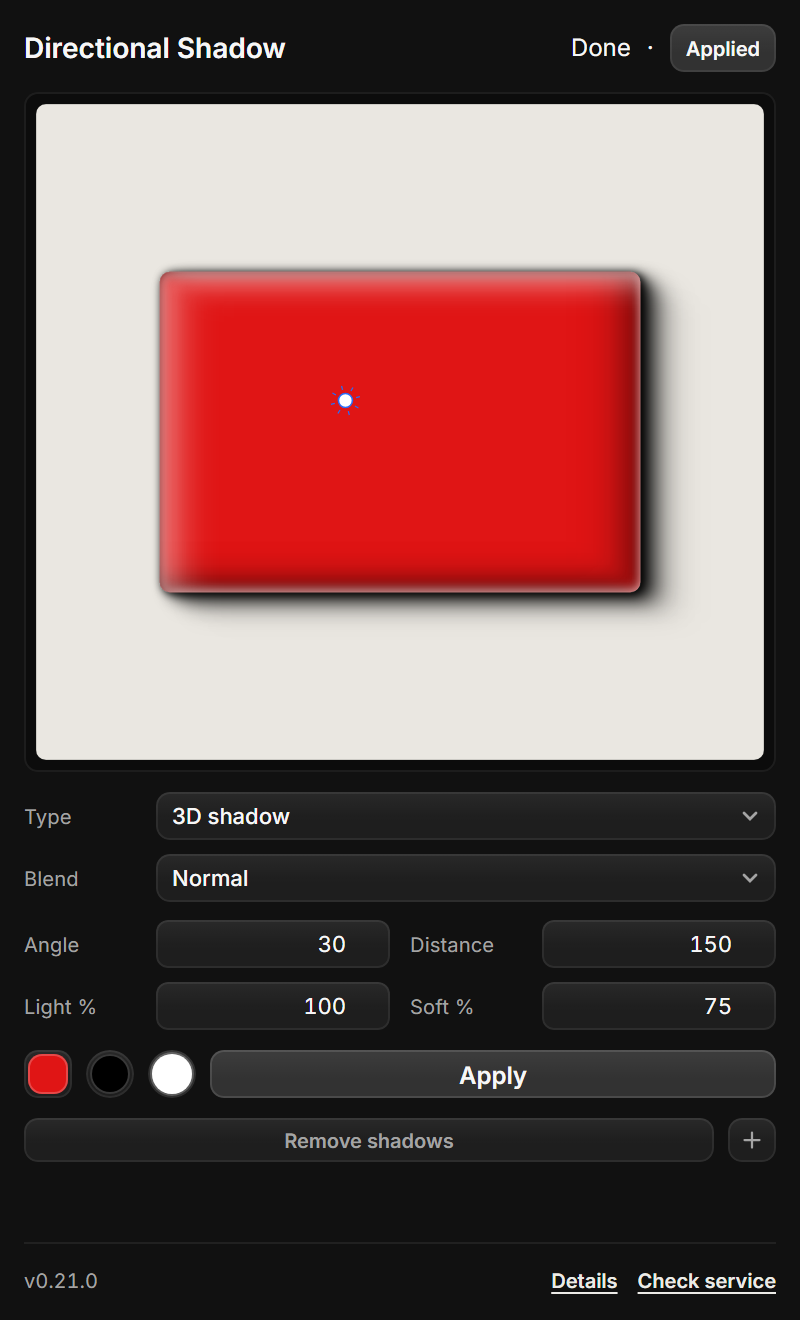
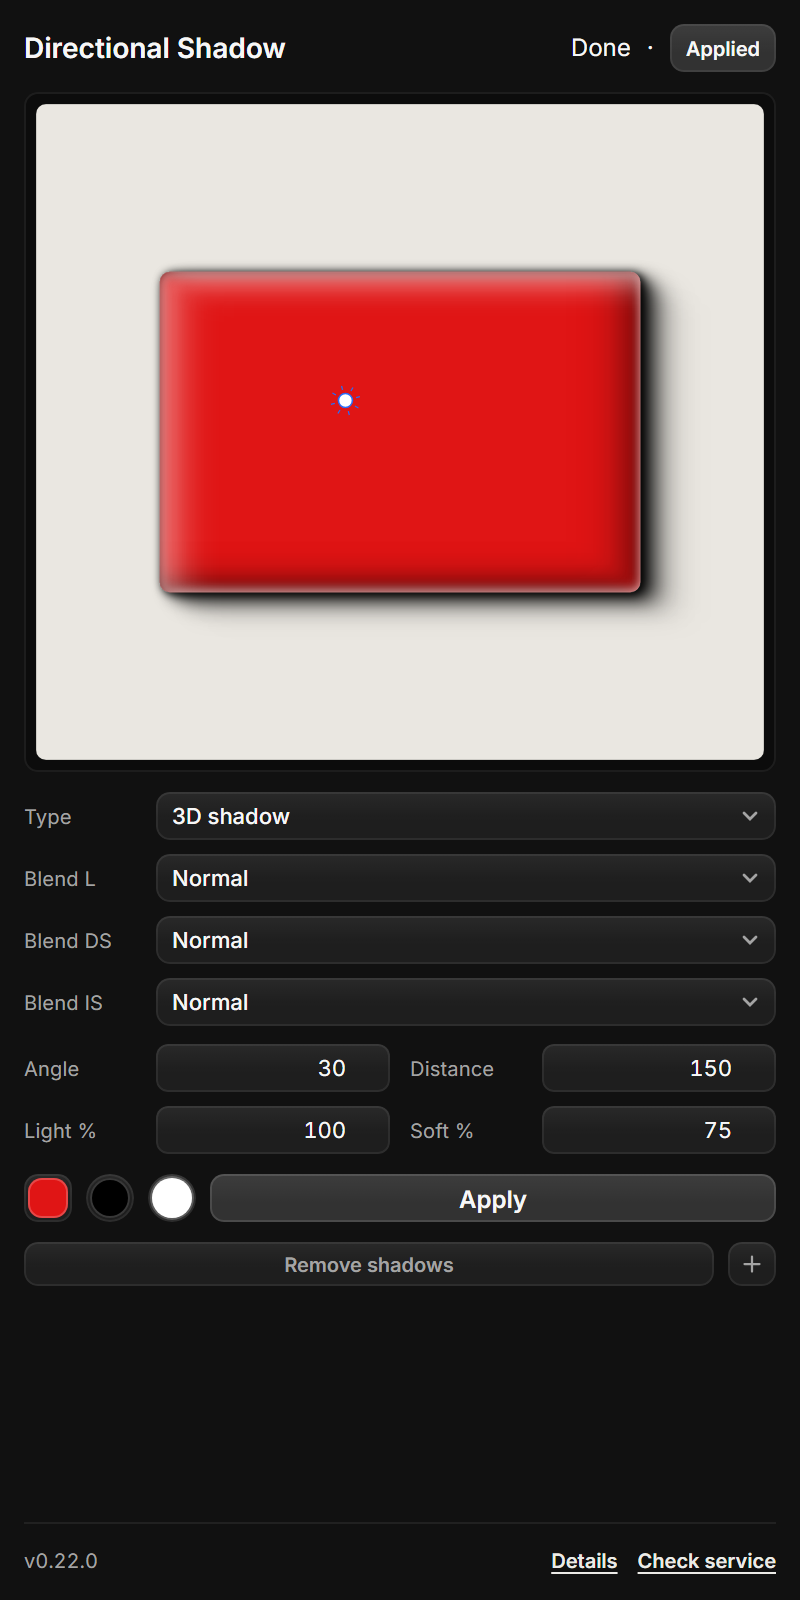
feat: give 3D mode separate blends for lighting, drop and inner
In 3D mode the single Blend row becomes three controls: Blend L for the
lighting ramp, Blend DS for the drop shadow ramp and Blend IS for the inner
bevel ramp. Each value is saved with the panel settings and used by the
matching effect group; the 2D modes keep one Blend row and reuse the slot of
the selected type.

diff --git a/plugin/app.js b/plugin/app.js
@@ -19,6 +19,11 @@ const el = {
   soft: document.getElementById("soft"),
   kind: document.getElementById("kind"),
   blend: document.getElementById("blend"),
+  blendSingle: document.getElementById("blendSingle"),
+  blend3d: document.getElementById("blend3d"),
+  blendLight: document.getElementById("blendLight"),
+  blendDrop: document.getElementById("blendDrop"),
+  blendInner: document.getElementById("blendInner"),
   cardSwatchBtn: document.getElementById("cardSwatchBtn"),
   cardSwatchDot: document.getElementById("cardSwatchDot"),
   pickerTitle: document.getElementById("pickerTitle"),
@@ -57,6 +62,8 @@ let lastParams = { ...Shadow.DEFAULTS };
 let hsv = { h: 0, s: 0, v: 0 };
 let objectColour = "#f7f7f7";
 let lightingColour = Shadow ? Shadow.DEFAULT_LIGHTING : "#ffffff";
+// 3D mode keeps one blend per bevel component; the 2D modes reuse the matching slot.
+let blends = { lighting: "normal", dropShadow: "normal", innerShadow: "normal" };
 
 function badge(text, kind) {
   el.badge.textContent = text;
@@ -292,7 +299,7 @@ function drawPreview() {
   const green = parseInt(hex.slice(2, 4), 16);
   const blue = parseInt(hex.slice(4, 6), 16);
 
-  function drawInnerRamp(innerParams, colourValue) {
+  function drawInnerRamp(innerParams, colourValue, blendValue) {
     const innerPlan = Shadow.planLayers(innerParams);
     const rgb = Colour.hexToRgb(colourValue);
     ctx.save();
@@ -300,7 +307,7 @@ function drawPreview() {
     ctx.clip();
     for (const layer of innerPlan.layers) {
       ctx.save();
-      ctx.globalCompositeOperation = previewBlend(innerPlan.params.blend);
+      ctx.globalCompositeOperation = previewBlend(blendValue);
       ctx.filter = "blur(" + Math.max(0.5, layer.blur * SCALE) + "px)";
       ctx.lineWidth = Math.max(1.5, layer.blur * SCALE * 1.2);
       ctx.strokeStyle =
@@ -324,7 +331,7 @@ function drawPreview() {
   if (!isInnerOnly) {
     for (const layer of plan.layers) {
       ctx.save();
-      ctx.globalCompositeOperation = previewBlend(params.blend);
+      ctx.globalCompositeOperation = previewBlend(is3d ? blends.dropShadow : params.blend);
       ctx.filter = "blur(" + Math.max(0.5, layer.blur * SCALE) + "px)";
       ctx.fillStyle = "rgba(" + red + "," + green + "," + blue + "," + Math.min(1, layer.opacity).toFixed(3) + ")";
       roundRect(
@@ -353,7 +360,7 @@ function drawPreview() {
 
   if (isInnerOnly) {
     // inner shadow: a soft edge band inside the card, offset against the light
-    drawInnerRamp(params, params.colour);
+    drawInnerRamp(params, params.colour, params.blend);
   }
 
   if (is3d) {
@@ -363,8 +370,8 @@ function drawPreview() {
       kind: "innerShadow",
       angle: (params.angle + 180) % 360,
     });
-    drawInnerRamp(darkParams, params.colour);
-    drawInnerRamp(params, lightingColour);
+    drawInnerRamp(darkParams, params.colour, blends.innerShadow);
+    drawInnerRamp(params, lightingColour, blends.lighting);
   }
 
   // light handle: the sun sits opposite the shadow. Distance 300 px maps to 126 canvas px
@@ -651,6 +658,35 @@ function updateAddLabel() {
   el.addShadow.setAttribute("aria-label", "Add " + label + " to the selected layer");
 }
 
+function validBlend(value) {
+  return Shadow.BLEND_MODES.includes(String(value)) ? String(value) : "normal";
+}
+
+function cloneBlendOptions(target) {
+  for (const option of Array.from(el.blend.options)) target.append(option.cloneNode(true));
+}
+
+/** 2D modes show one Blend row, 3D shows one row per bevel component. */
+function syncBlendUi() {
+  const is3d = el.kind.value === "3dShadow";
+  el.blendSingle.hidden = is3d;
+  el.blend3d.hidden = !is3d;
+  if (is3d) {
+    el.blendLight.value = blends.lighting;
+    el.blendDrop.value = blends.dropShadow;
+    el.blendInner.value = blends.innerShadow;
+  } else {
+    el.blend.value = blends[el.kind.value] || "normal";
+  }
+  if (typeof window.syncCustomSelects === "function") window.syncCustomSelects();
+}
+
+function activeBlends() {
+  return el.kind.value === "3dShadow"
+    ? { lighting: el.blendLight.value, dropShadow: el.blendDrop.value, innerShadow: el.blendInner.value }
+    : { ...blends, [el.kind.value]: el.blend.value };
+}
+
 async function build() {
   const { doc, layerId } = await selectedLayer();
   const startedAt = performance.now();
@@ -659,6 +695,7 @@ async function build() {
     layerId,
     params: lastParams,
     lightingColour,
+    blends: activeBlends(),
     // only clean up the old mode when it wrote to this same layer
     previousKind: preview && preview.layerIds[0] === layerId ? preview.kind : null,
   });
@@ -680,7 +717,7 @@ async function runApply() {
     lastParams = readParams();
     setStatus("adding shadows…");
     await build();
-    await api.settings.set({ shadow: lastParams, preview: { objectColour, lightingColour } }).catch(() => {});
+    await api.settings.set({ shadow: lastParams, blends, preview: { objectColour, lightingColour } }).catch(() => {});
     badge("Applied", "ok");
     setStatus(kindLabel(lastParams.kind) + " shadow applied to the selected layer");
   } catch (error) {
@@ -706,7 +743,7 @@ async function runAddShadow() {
     lastParams = readParams();
     setStatus("adding " + Shadow.STEPS + " " + kindLabel(target) + " shadows…");
     await build();
-    await api.settings.set({ shadow: lastParams, preview: { objectColour, lightingColour } }).catch(() => {});
+    await api.settings.set({ shadow: lastParams, blends, preview: { objectColour, lightingColour } }).catch(() => {});
     badge("Applied", "ok");
     setStatus(kindLabel(target) + " shadow added; the " + kindLabel(previousKind) + " shadow stays");
     addDetail("added " + target + " shadows beside the existing " + previousKind + " shadows");
@@ -785,8 +822,22 @@ function wire() {
   el.kind.addEventListener("change", () => {
     scheduleDraw();
     updateAddLabel();
+    syncBlendUi();
   });
-  el.blend.addEventListener("change", () => scheduleDraw());
+  el.blend.addEventListener("change", () => {
+    if (el.kind.value !== "3dShadow") blends[el.kind.value] = el.blend.value;
+    scheduleDraw();
+  });
+  for (const [select, key] of [
+    [el.blendLight, "lighting"],
+    [el.blendDrop, "dropShadow"],
+    [el.blendInner, "innerShadow"],
+  ]) {
+    select.addEventListener("change", () => {
+      blends[key] = select.value;
+      scheduleDraw();
+    });
+  }
   el.apply.addEventListener("click", () => void runApply());
   el.detailsBtn.addEventListener("click", openDetails);
   el.serviceBtn.addEventListener("click", () => void checkService());
@@ -807,7 +858,19 @@ async function init() {
   } catch {
     stored = {};
   }
-  applyParamsToUi(Shadow.normalise({ ...Shadow.DEFAULTS, ...(stored.shadow || {}) }));
+  const storedShadow = stored.shadow || {};
+  const storedBlends = stored.blends && typeof stored.blends === "object" ? stored.blends : {};
+  const legacyBlend = storedShadow.blend;
+  blends = {
+    lighting: validBlend(storedBlends.lighting || legacyBlend),
+    dropShadow: validBlend(storedBlends.dropShadow || legacyBlend),
+    innerShadow: validBlend(storedBlends.innerShadow || legacyBlend),
+  };
+  applyParamsToUi(Shadow.normalise({ ...Shadow.DEFAULTS, ...storedShadow }));
+  cloneBlendOptions(el.blendLight);
+  cloneBlendOptions(el.blendDrop);
+  cloneBlendOptions(el.blendInner);
+  syncBlendUi();
   updateAddLabel();
   const rememberedCard = stored.preview && Colour.normaliseHex(stored.preview.objectColour);
   objectColour = rememberedCard || "#f7f7f7";
@@ -817,7 +880,7 @@ async function init() {
   syncSwatches();
   badge("Ready", "ok");
   setStatus("drag the light, then Apply");
-  addDetail("panel ready · v0.21.0");
+  addDetail("panel ready · v0.22.0");
   await refreshSelection();
   setInterval(refreshSelection, 2000);
   drawPreview();

diff --git a/plugin/shadow.js b/plugin/shadow.js
@@ -345,12 +345,19 @@
 
   /* ------------------------------------------------------------------ layer effects */
 
-  /** Group descriptors for one mode, with the angle and colour each ramp uses. */
-  function effectGroups(kind, params, lightingColour) {
+  /** Group descriptors for one mode, with the angle, colour and blend each ramp uses. */
+  function effectGroups(kind, params, lightingColour, blends) {
     const lighting = /^#[0-9a-f]{6}$/i.test(String(lightingColour || "")) ? lightingColour : DEFAULT_LIGHTING;
+    const modes = blends || {};
+    const blendFor = (group) => {
+      if (group.kind === "dropShadow") return modes.dropShadow || params.blend;
+      if (group.role === "light") return modes.lighting || params.blend;
+      return modes.innerShadow || params.blend;
+    };
     return (GROUP_LAYOUT[kind] || GROUP_LAYOUT.dropShadow).map((group) => ({
       ...group,
       colour: group.role === "light" ? lighting : params.colour,
+      blend: blendFor(group),
       angle: (((Number(params.angle) + (group.angleOffset || 0)) % 360) + 360) % 360,
     }));
   }
@@ -383,12 +390,12 @@
     const layerId = options.layerId;
     const plan = planLayers(options.params);
     const kind = plan.params.kind;
-    const groups = effectGroups(kind, plan.params, options.lightingColour);
+    const groups = effectGroups(kind, plan.params, options.lightingColour, options.blends);
     const steps = [];
 
     if (options.previousKind && options.previousKind !== kind) {
       const keep = new Set(groups.map((group) => group.kind + ":" + group.offset));
-      for (const group of effectGroups(options.previousKind, plan.params, options.lightingColour)) {
+      for (const group of effectGroups(options.previousKind, plan.params, options.lightingColour, options.blends)) {
         if (!keep.has(group.kind + ":" + group.offset)) steps.push(...disableStepsFor(layerId, group));
       }
     }
@@ -405,7 +412,13 @@
         }
         describedByKind.set(group.kind, described);
       }
-      const groupPlan = planLayers({ ...plan.params, kind: group.kind, angle: group.angle, colour: group.colour });
+      const groupPlan = planLayers({
+        ...plan.params,
+        kind: group.kind,
+        angle: group.angle,
+        colour: group.colour,
+        blend: group.blend,
+      });
       const payloads = groupPlan.layers.map((entry) =>
         effectParams(described, { distance: entry.distance, blur: entry.blur, opacity: entry.opacity }, groupPlan.params),
       );

diff --git a/plugin/index.html b/plugin/index.html
@@ -32,7 +32,7 @@
             <span class="chevron" aria-hidden="true"></span>
           </span>
         </div>
-        <div class="mini">
+        <div class="mini" id="blendSingle">
           <span>Blend</span>
           <span class="select">
             <select id="blend" aria-label="Shadow blend mode">
@@ -66,6 +66,29 @@
             </select>
             <span class="chevron" aria-hidden="true"></span>
           </span>
+        </div>
+        <div id="blend3d" hidden>
+          <div class="mini">
+            <span>Blend L</span>
+            <span class="select">
+              <select id="blendLight" aria-label="Lighting blend mode"></select>
+              <span class="chevron" aria-hidden="true"></span>
+            </span>
+          </div>
+          <div class="mini">
+            <span>Blend DS</span>
+            <span class="select">
+              <select id="blendDrop" aria-label="Drop shadow blend mode"></select>
+              <span class="chevron" aria-hidden="true"></span>
+            </span>
+          </div>
+          <div class="mini">
+            <span>Blend IS</span>
+            <span class="select">
+              <select id="blendInner" aria-label="Inner shadow blend mode"></select>
+              <span class="chevron" aria-hidden="true"></span>
+            </span>
+          </div>
         </div>
 
         <div class="shadow-grid">
@@ -126,7 +149,7 @@
 
 
       <footer class="panel-footer">
-        <span id="version">v0.21.0</span>
+        <span id="version">v0.22.0</span>
         <div class="footer-actions">
           <button id="detailsBtn" class="link-button" type="button">Details</button>
           <button id="serviceBtn" class="link-button" type="button">Check service</button>

diff --git a/plugin/panel.css b/plugin/panel.css
@@ -805,6 +805,17 @@ select.input option {
   gap: 7px;
 }
 
+/* 3D mode: one blend control per bevel component (lighting, drop, inner). */
+#blend3d {
+  display: flex;
+  flex-direction: column;
+  gap: 7px;
+}
+
+#blend3d .mini {
+  flex: none;
+}
+
 .shadow-grid {
   display: grid;
   grid-template-columns: 1fr 1fr;

diff --git a/README.md b/README.md
@@ -40,8 +40,10 @@ Type set to Inner it adds a drop shadow, so the same layer can keep both.
 
 **3D shadow** writes three ramps in one Apply: a drop shadow, a dark inner shadow on the side away
 from the light, and a light inner shadow on the light side. The round swatch after the shadow swatch
-picks the **lighting colour** for that bevel; it is remembered with the other panel settings. The
-**+** button is disabled in 3D mode because both types are already part of it.
+picks the **lighting colour** for that bevel; it is remembered with the other panel settings. In 3D
+mode the single Blend row becomes three: **Blend L** for the lighting ramp, **Blend DS** for the drop
+shadow ramp and **Blend IS** for the inner bevel ramp. The **+** button is disabled in 3D mode because
+both types are already part of it.
 
 **Remove shadows** removes the ramps of the last written mode from the layer; applying again adds
 them back.
@@ -53,7 +55,10 @@ them back.
 | `Light %` | 1–100 | 100 | Scales every layer's opacity |
 | `Soft %` | 1–100 | 75 | Scales the blur of every step |
 | `Type` | Drop / Inner / 3D shadow | Drop | Which ramp set to write |
-| `Blend` | Photoshop blend list | Normal | Forwarded to the host when layer styles expose a blend parameter; the preview always shows it |
+| `Blend` | Photoshop blend list | Normal | 2D modes: blend of the selected shadow type |
+| `Blend L` | Photoshop blend list | Normal | 3D mode: blend of the lighting ramp |
+| `Blend DS` | Photoshop blend list | Normal | 3D mode: blend of the drop shadow ramp |
+| `Blend IS` | Photoshop blend list | Normal | 3D mode: blend of the inner shadow ramp |
 | square swatch | custom picker | `#f7f7f7` | Preview box colour; also opens by clicking the white card |
 | round swatch | custom picker | black | Shadow colour |
 | ringed round swatch | custom picker | white | Lighting colour for the 3D bevel |
@@ -71,7 +76,7 @@ pointing at θ is written as `180 − θ`.
 ## Testing
 
 ```powershell
-node tools/shadow-test.cjs     # 21 tests: presets, angles, typed payloads, 2D and 3D batches
+node tools/shadow-test.cjs     # 22 tests: presets, angles, typed payloads, 2D and 3D batches
 node tools/colour-test.cjs     # 6 tests: hex/rgb/hsv maths for the picker
 node tools/ui-check.cjs        # ids and el keys used by app.js exist in index.html
 node tools/bench.cjs           # operation counts and maths timings
